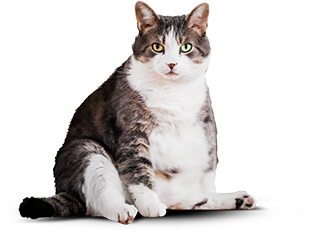
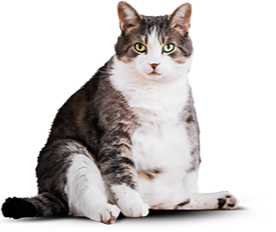
sets slider styles

diff --git a/source/js/script.js b/source/js/script.js
@@ -1,5 +1,6 @@
 var siteNavigation = document.querySelector(".site-navigation");
 var siteNavigationToggleButton = document.querySelector(".site-navigation__toggler");
+var demoSlider = document.querySelector(".demo__slider");
 
 if (siteNavigation) {
   siteNavigation.classList.add("site-navigation--closed");
@@ -16,4 +17,54 @@ if (siteNavigation) {
       }
     });
   }
+}
+
+if (demoSlider) {
+  var sliderBar = demoSlider.querySelector(".slider__bar");
+  var sliderPin = demoSlider.querySelector(".slider__pin");
+  var catsBefore = document.querySelector(".demo__image-box--before");
+  var catsAfter = document.querySelector(".demo__image-box--after");
+  var sliderCurrentPosition = 0;
+
+  function isAllowedMoving(elem, shift) {
+    var allow = true;
+    // var leftMargin = getComputedStyle(elem, null).getPropertyValue("margin-left");
+    // if (Math.abs(shift - 0.0) < 1e-6 || Math.abs(shift - 100.0) > 1e-6) {
+    if (elem.offsetLeft - 6 + shift < elem.minPosition || elem.offsetLeft - 6 + shift > elem.maxPosition) {
+      allow = false;
+    }
+    return allow;
+  }
+
+  function setCatsOpacity(opacity) {
+    catsBefore.style.opacity = 1 - opacity;
+    catsAfter.style.opacity = opacity;
+  }
+
+  sliderPin.addEventListener("keydown", function (evt) {
+    var pinWidth = this.offsetWidth + 12;
+    var sliderBarWidth = sliderBar.offsetWidth;
+    // var pathLength = sliderBarWidth - pinWidth - 2;
+    var pathLength = 100;
+    this.minPosition = 0;
+    this.maxPosition = sliderBarWidth - pinWidth - 2;
+    // var leftMargin = getComputedStyle(this, null).getPropertyValue("margin-left");
+    if (evt.keyCode === 37) {
+      evt.preventDefault();
+      if (isAllowedMoving(this, -1)) {
+        // this.style.left = this.offsetLeft - 6 - 1 + "px";
+        sliderCurrentPosition -= 1 / pathLength;
+        // this.style.left = sliderCurrentPosition - 1 / this.maxPosition + "%";
+      }
+    }
+    if (evt.keyCode === 39) {
+      evt.preventDefault();
+      if (isAllowedMoving(this, 1)) {
+        // this.style.left = this.offsetLeft - 6 + 1 + "px";
+        sliderCurrentPosition += 1 / pathLength;
+      }
+    }
+    this.style.left = sliderCurrentPosition * 100 + "%";
+    setCatsOpacity((this.offsetLeft - 6) / this.maxPosition);
+  });
 }

diff --git a/source/less/blocks/slider.less b/source/less/blocks/slider.less
@@ -1,13 +1,86 @@
 .slider {
-  display: flex;
-  justify-content: center;
+  display: grid;
+  grid-template-columns: auto 17px 1fr 17px auto;
+  grid-template-rows: 40px;
+  justify-items: center;
+  align-items: center;
+  padding: 29px 0 19px;
+
+  @media (min-width: @medium-width) {
+    grid-template-columns: auto 26px 1fr 21px auto;
+    padding: 20px 0 31px;
+  }
 }
 
 .slider__label {
+  grid-row: ~"1 / 2";
   .set-font(@font-size: @font-size-base2, @line-height: 20px, @font-color: #000000, @text-transform: uppercase);
+  padding: 5px 0;
+  border-bottom: 1px dotted rgba(0, 0, 0, 0.24);
 
   @media (min-width: @medium-width) {
     font-size: 20px;
-    line-height: 29.64px;
+    line-height: 30px;
+  }
+
+  &--after {
+    grid-column: ~"5 / 6";
+  }
+
+  .slider__pin:hover ~ & {
+    border-bottom: 1px solid rgba(0, 0, 0, 0.4);
+  }
+
+  .slider__pin:active ~ &,
+  .slider__pin:focus ~ & {
+    border-color: transparent;
+  }
+}
+
+.slider__bar {
+  grid-row: ~"1 / 2";
+  grid-column: ~"3 / 4";
+  box-sizing: border-box;
+  // width: 84px;
+  width: 100%;
+  height: 14px;
+  // padding: 4px 0;
+  // margin: 0 16px;
+  background-color: #ffffff;
+  border: 1px solid @color-special-grey;
+  border-radius: 6px;
+
+  @media (min-width: @medium-width) {
+    height: 6px;
+    background-color: #dcdcdc;
+    border: none;
+  }
+}
+
+.slider__pin {
+  grid-row: ~"1 / 2";
+  grid-column: ~"3 / 4";
+  justify-self: start;
+  position: relative;
+  // top: 50%;
+  // left: 0;
+  width: 35px;
+  height: 6px;
+  padding: 0;
+  margin: 0 6px;
+  background-color: @color-base-green;
+  border: none;
+  border-radius: 6px;
+
+  @media (min-width: @medium-width) {
+    width: 34px;
+    height: 34px;
+    margin: 0;
+    background-color: @color-base-green;
+    border: none;
+    border-radius: 50%;
+    box-shadow:
+      0 1px 3px 0 rgba(0, 0, 0, 0.16),
+      inset 0 0 0 13px #ffffff;
   }
 }

diff --git a/source/index.html b/source/index.html
@@ -118,19 +118,19 @@
           </tbody>
         </table>
         <div class="demo__presentation">
-          <div class="demo__image-box demo__image-box--before">
-            <img class="demo__image" src="img/cat-before-mobile.png" alt="Вид кота до" width="311" height="232">
-          </div>
-          <div class="demo__image-box demo__image-box--after">
-            <img class="demo__image" src="img/cat-after-mobile.png" alt="Вид кота после" width="251" height="240">
+          <div class="demo__image-container">
+            <div class="demo__image-box demo__image-box--before">
+              <img class="demo__image" src="img/cat-before-mobile.png" alt="Вид кота до" width="276" height="232">
+            </div>
+            <div class="demo__image-box demo__image-box--after">
+              <img class="demo__image" src="img/cat-after-mobile.png" alt="Вид кота после" width="251" height="240">
+            </div>
           </div>
           <div class="demo__slider slider">
-            <span class="slider__label">Было</span>
-            <div class="slider__bar">
-              <div class="slider__line"></div>
-              <button class="slider__pin" type="button"><span class="visually-hidden">Ползунок слайдера</span></button>
-            </div>
-            <span class="slider__label">Стало</span>
+            <div class="slider__bar"></div>
+            <button class="slider__pin" type="button"><span class="visually-hidden">Ползунок слайдера</span></button>
+            <div class="slider__label">Было</div>
+            <div class="slider__label slider__label--after">Стало</div>
           </div>
         </div>
       </div>

diff --git a/source/less/blocks/demo.less b/source/less/blocks/demo.less
@@ -2,20 +2,18 @@
   background-color: #eaeaea;
 
   @media (min-width: @medium-width) {
-    // background-image: linear-gradient(to bottom, #ffffff 619px, #eaeaea 619px);
-    background-color: #ffffff;
-  }
-
-  @media (min-width: @large-width) {
-    background-image: linear-gradient(to bottom, #ffffff 194px, #eaeaea 194px);
+    background-image: linear-gradient(to top, #eaeaea 462px, #ffffff 462px);
+    // background-color: #ffffff;
   }
 }
 
 .demo__wrapper {
   @media (min-width: @large-width) {
     display: grid;
-    grid-template-rows: auto auto auto 1fr;
+    grid-template-rows: auto auto auto;
+    // grid-template-rows: auto auto auto 1fr;
     grid-template-columns: 1fr 1fr;
+    align-items: start;
   }
 }
 
@@ -127,16 +125,39 @@
 .demo__presentation {
   grid-row: ~"1 / -1";
   grid-column: ~"2 / 3";
+  align-self: end;
   // align-content: end;
   // align-items: end;
   // justify-items: start;
-  display: grid;
-  grid-template-rows: auto auto 1fr;
   margin-top: 42px;
+
+  @media (min-width: @medium-width) {
+    margin-top: 59px;
+    padding-bottom: 33px;
+  }
+}
+
+.demo__image-container {
+  // grid-row: ~"-1 / -2";
+  display: grid;
+  grid-template-rows: auto auto;
 }
 
 .demo__image-box {
   grid-row: ~"1 / 2";
   grid-column: ~"1 / 2";
   justify-self: center;
+  line-height: 0;
+}
+
+.demo__image-box--after {
+  opacity: 0;
+}
+
+.demo__slider {
+  margin: 0 42px 0 42px;
+
+  @media (min-width: @medium-width) {
+    margin: 0 70px 0 69px;
+  }
 }

diff --git a/source/less/blocks/features.less b/source/less/blocks/features.less
@@ -11,7 +11,7 @@
   padding: 0;
   list-style: none;
   counter-reset: items-counter;
-  padding-bottom: 42px;
+  margin-bottom: 42px;
 
   @media (min-width: @medium-width) {
     display: grid;
@@ -19,6 +19,7 @@
     row-gap: 37px;
     column-gap: 60px;
     padding-bottom: 47px;
+    margin: 0;
   }
 
   @media (min-width: @medium-width) and (max-width: @large-width - 1px) {
@@ -70,13 +71,12 @@
   }
 
   &::after {
-    .set-font(@font-size: 280px, @line-height: 280px, @font-color: @color-base-grey);
-    z-index: -1;
-
     @media (min-width: @medium-width) {
       content: counter(items-counter);
       grid-row: ~"1 / -1";
       grid-column: ~"2 / 3";
+      .set-font(@font-size: 280px, @line-height: 280px, @font-color: @color-base-grey);
+      z-index: -1;
     }
   }
 

diff --git a/source/less/globals/mixins.less b/source/less/globals/mixins.less
@@ -29,7 +29,8 @@
     @bottom: auto;
     @left: 0;
     @right: 0;
-    @color: #000000) {
+    @color: #000000;
+    @style: solid) {
   position: relative;
 
   &::after {
